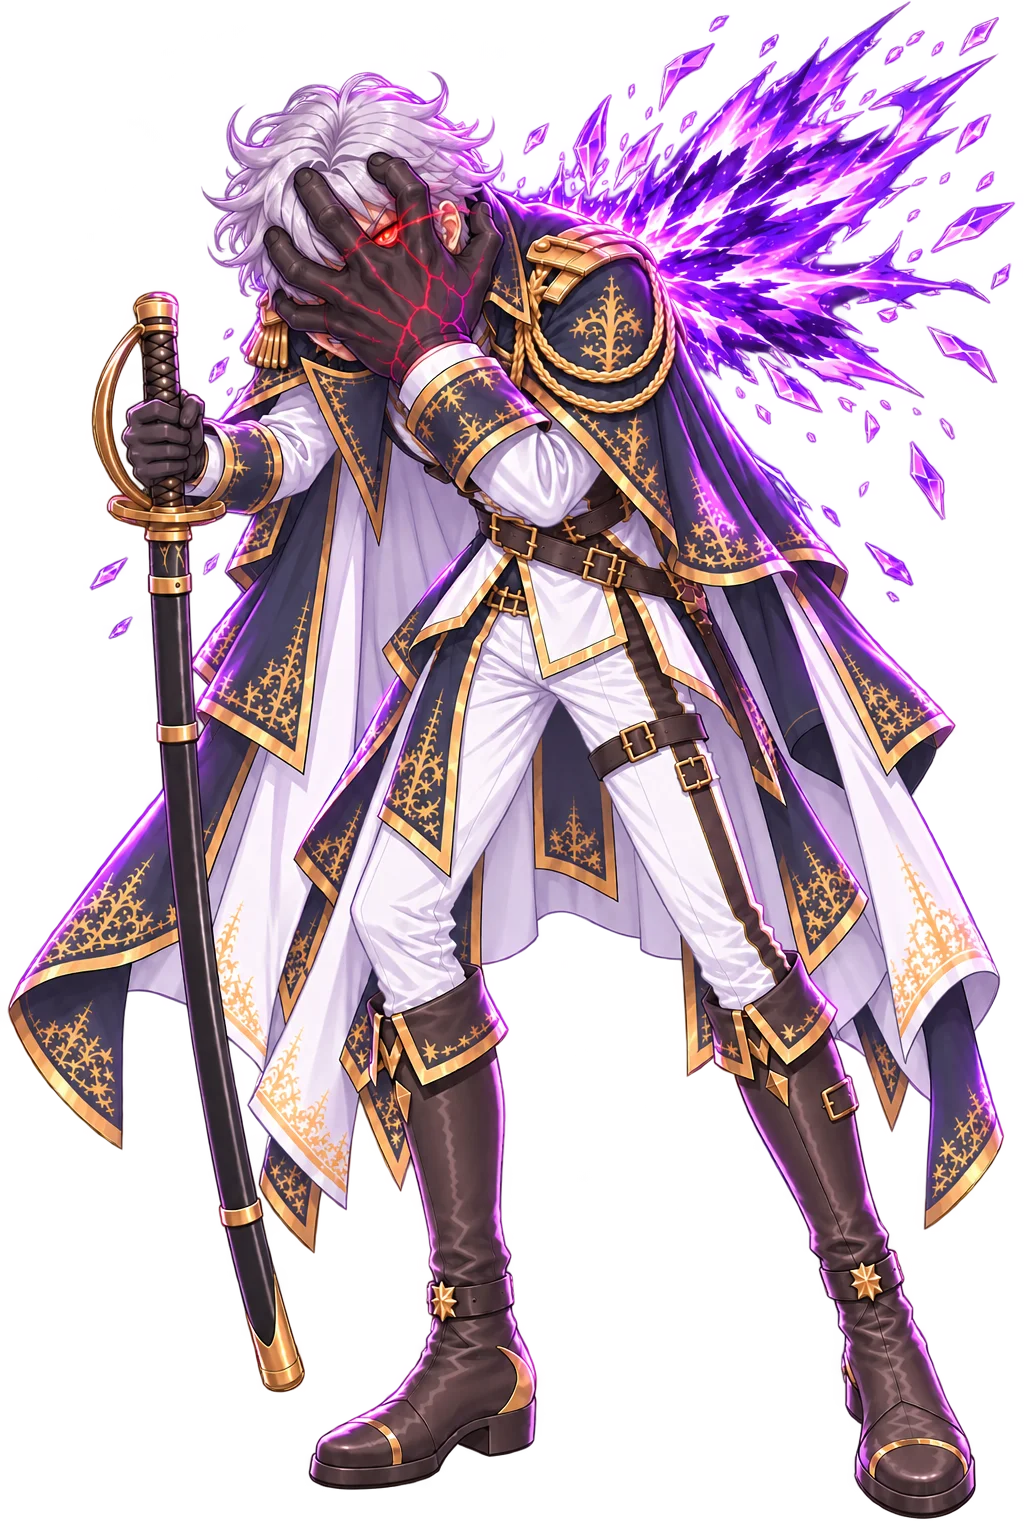
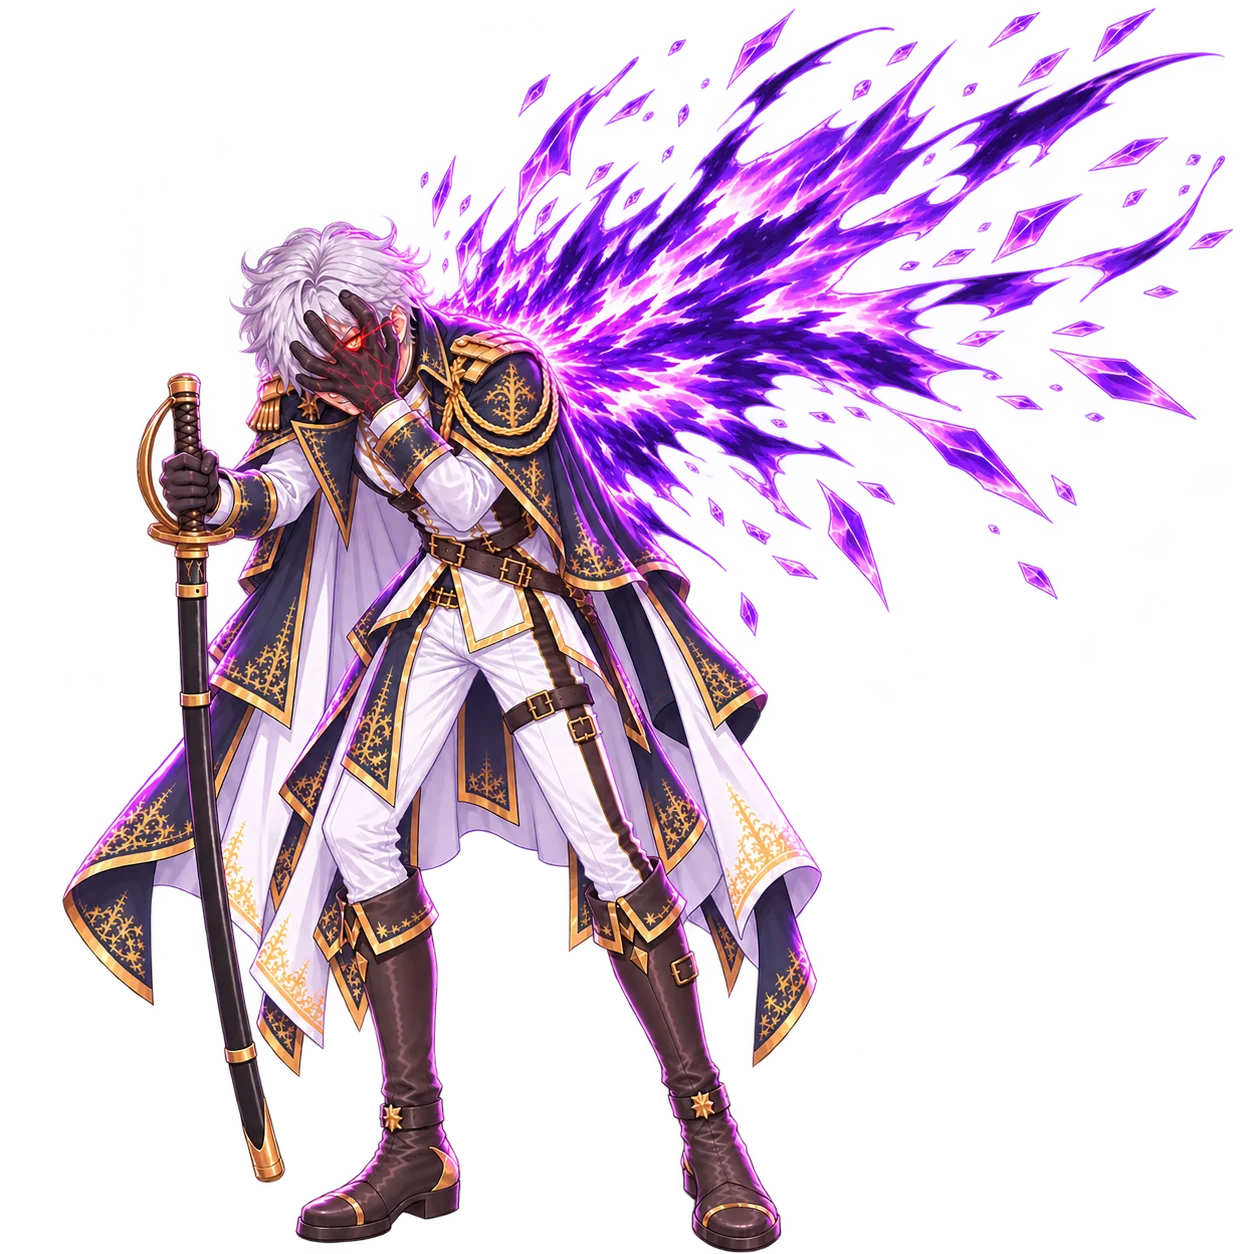
ver -2350 米夏 暴走：正常比例的手、光翼噴湧加大、畫布改方形 1254²

diff --git a/index.html b/index.html
@@ -16,7 +16,7 @@
 <link rel="apple-touch-icon" href="resources/background/tivot_emblem.png?v=9220f8bb">
 <title>TIVOT</title>
 <!-- 全域鎖直向（真鎖 + 橫向擋板）；classic script，需在版面就緒前掛上 -->
-<script src="orientation.js?v=2349"></script>
+<script src="orientation.js?v=2350"></script>
 <!-- 離線包（ver -2256）：註冊 sw.js；主畫面 App 裡出現「下載離線包」鈕 -->
 <script src="offline.js"></script>
 <!-- ══ 效能探針・計數層（ver -850，Ray：「沒有辦法寫一個偵測程式進去看是什麼
@@ -65,74 +65,74 @@
 <script type="importmap">
 {
   "imports": {
-    "./audio.js": "./audio.js?v=2349",
-    "./config.js": "./config.js?v=2349",
-    "./i18n.js": "./i18n.js?v=2349",
-    "./main.js": "./main.js?v=2349",
-    "./offline.js": "./offline.js?v=2349",
-    "./orientation.js": "./orientation.js?v=2349",
-    "./state.js": "./state.js?v=2349",
-    "./sw.js": "./sw.js?v=2349",
-    "./telemetry.js": "./telemetry.js?v=2349",
-    "./modules/beatpick.js": "./modules/beatpick.js?v=2349",
-    "./modules/blink.js": "./modules/blink.js?v=2349",
-    "./modules/breath.js": "./modules/breath.js?v=2349",
-    "./modules/combat.js": "./modules/combat.js?v=2349",
-    "./modules/defense.js": "./modules/defense.js?v=2349",
-    "./modules/enemy.js": "./modules/enemy.js?v=2349",
-    "./modules/eyefx.js": "./modules/eyefx.js?v=2349",
-    "./modules/gear.js": "./modules/gear.js?v=2349",
-    "./modules/groundShadow.js": "./modules/groundShadow.js?v=2349",
-    "./modules/haptics.js": "./modules/haptics.js?v=2349",
-    "./modules/inn.js": "./modules/inn.js?v=2349",
-    "./modules/inspector.js": "./modules/inspector.js?v=2349",
-    "./modules/loot.js": "./modules/loot.js?v=2349",
-    "./modules/partner.js": "./modules/partner.js?v=2349",
-    "./modules/saint.js": "./modules/saint.js?v=2349",
-    "./modules/sakura.js": "./modules/sakura.js?v=2349",
-    "./modules/save.js": "./modules/save.js?v=2349",
-    "./modules/settings.js": "./modules/settings.js?v=2349",
-    "./modules/story.js": "./modules/story.js?v=2349",
-    "./modules/sway.js": "./modules/sway.js?v=2349",
-    "./modules/tone.js": "./modules/tone.js?v=2349",
-    "./modules/town.js": "./modules/town.js?v=2349",
-    "./modules/transition.js": "./modules/transition.js?v=2349",
-    "./modules/tutorial.js": "./modules/tutorial.js?v=2349",
-    "./modules/weapon.js": "./modules/weapon.js?v=2349",
-    "./script/bg_index.js": "./script/bg_index.js?v=2349",
-    "./script/blink.js": "./script/blink.js?v=2349",
-    "./script/clock.js": "./script/clock.js?v=2349",
-    "./script/enemies.js": "./script/enemies.js?v=2349",
-    "./script/evaluation.js": "./script/evaluation.js?v=2349",
-    "./script/eyefx.js": "./script/eyefx.js?v=2349",
-    "./script/inventory.js": "./script/inventory.js?v=2349",
-    "./script/loadout.js": "./script/loadout.js?v=2349",
-    "./script/mainScript.js": "./script/mainScript.js?v=2349",
-    "./script/progress.js": "./script/progress.js?v=2349",
-    "./script/shopcards.js": "./script/shopcards.js?v=2349",
-    "./script/shopstock.js": "./script/shopstock.js?v=2349",
-    "./script/speakers.js": "./script/speakers.js?v=2349",
-    "./script/sway.js": "./script/sway.js?v=2349",
-    "./script/town.js": "./script/town.js?v=2349",
-    "./script/weapons.js": "./script/weapons.js?v=2349",
-    "./i18n/en.js": "./i18n/en.js?v=2349",
-    "./i18n/es.js": "./i18n/es.js?v=2349",
-    "./i18n/ja.js": "./i18n/ja.js?v=2349",
-    "./i18n/scriptTr.js": "./i18n/scriptTr.js?v=2349",
-    "./i18n/zh.js": "./i18n/zh.js?v=2349",
-    "./i18n/script/es.classic.js": "./i18n/script/es.classic.js?v=2349",
-    "./i18n/script/es.js": "./i18n/script/es.js?v=2349",
-    "./i18n/ui/es.classic.js": "./i18n/ui/es.classic.js?v=2349",
-    "./i18n/ui/es.js": "./i18n/ui/es.js?v=2349"
+    "./audio.js": "./audio.js?v=2350",
+    "./config.js": "./config.js?v=2350",
+    "./i18n.js": "./i18n.js?v=2350",
+    "./main.js": "./main.js?v=2350",
+    "./offline.js": "./offline.js?v=2350",
+    "./orientation.js": "./orientation.js?v=2350",
+    "./state.js": "./state.js?v=2350",
+    "./sw.js": "./sw.js?v=2350",
+    "./telemetry.js": "./telemetry.js?v=2350",
+    "./modules/beatpick.js": "./modules/beatpick.js?v=2350",
+    "./modules/blink.js": "./modules/blink.js?v=2350",
+    "./modules/breath.js": "./modules/breath.js?v=2350",
+    "./modules/combat.js": "./modules/combat.js?v=2350",
+    "./modules/defense.js": "./modules/defense.js?v=2350",
+    "./modules/enemy.js": "./modules/enemy.js?v=2350",
+    "./modules/eyefx.js": "./modules/eyefx.js?v=2350",
+    "./modules/gear.js": "./modules/gear.js?v=2350",
+    "./modules/groundShadow.js": "./modules/groundShadow.js?v=2350",
+    "./modules/haptics.js": "./modules/haptics.js?v=2350",
+    "./modules/inn.js": "./modules/inn.js?v=2350",
+    "./modules/inspector.js": "./modules/inspector.js?v=2350",
+    "./modules/loot.js": "./modules/loot.js?v=2350",
+    "./modules/partner.js": "./modules/partner.js?v=2350",
+    "./modules/saint.js": "./modules/saint.js?v=2350",
+    "./modules/sakura.js": "./modules/sakura.js?v=2350",
+    "./modules/save.js": "./modules/save.js?v=2350",
+    "./modules/settings.js": "./modules/settings.js?v=2350",
+    "./modules/story.js": "./modules/story.js?v=2350",
+    "./modules/sway.js": "./modules/sway.js?v=2350",
+    "./modules/tone.js": "./modules/tone.js?v=2350",
+    "./modules/town.js": "./modules/town.js?v=2350",
+    "./modules/transition.js": "./modules/transition.js?v=2350",
+    "./modules/tutorial.js": "./modules/tutorial.js?v=2350",
+    "./modules/weapon.js": "./modules/weapon.js?v=2350",
+    "./script/bg_index.js": "./script/bg_index.js?v=2350",
+    "./script/blink.js": "./script/blink.js?v=2350",
+    "./script/clock.js": "./script/clock.js?v=2350",
+    "./script/enemies.js": "./script/enemies.js?v=2350",
+    "./script/evaluation.js": "./script/evaluation.js?v=2350",
+    "./script/eyefx.js": "./script/eyefx.js?v=2350",
+    "./script/inventory.js": "./script/inventory.js?v=2350",
+    "./script/loadout.js": "./script/loadout.js?v=2350",
+    "./script/mainScript.js": "./script/mainScript.js?v=2350",
+    "./script/progress.js": "./script/progress.js?v=2350",
+    "./script/shopcards.js": "./script/shopcards.js?v=2350",
+    "./script/shopstock.js": "./script/shopstock.js?v=2350",
+    "./script/speakers.js": "./script/speakers.js?v=2350",
+    "./script/sway.js": "./script/sway.js?v=2350",
+    "./script/town.js": "./script/town.js?v=2350",
+    "./script/weapons.js": "./script/weapons.js?v=2350",
+    "./i18n/en.js": "./i18n/en.js?v=2350",
+    "./i18n/es.js": "./i18n/es.js?v=2350",
+    "./i18n/ja.js": "./i18n/ja.js?v=2350",
+    "./i18n/scriptTr.js": "./i18n/scriptTr.js?v=2350",
+    "./i18n/zh.js": "./i18n/zh.js?v=2350",
+    "./i18n/script/es.classic.js": "./i18n/script/es.classic.js?v=2350",
+    "./i18n/script/es.js": "./i18n/script/es.js?v=2350",
+    "./i18n/ui/es.classic.js": "./i18n/ui/es.classic.js?v=2350",
+    "./i18n/ui/es.js": "./i18n/ui/es.js?v=2350"
   }
 }
 </script>
 <!-- BUST:END -->
-<link rel="stylesheet" href="style.css?v=2349">
+<link rel="stylesheet" href="style.css?v=2350">
   <!-- 拾得道具／道具欄／商店／懸賞榜（ver -380 抽出，飛行頁共用同一份）。
        ⚠ `data-lootsheet` 是給 `modules/loot.js` 認的：它看到已經掛過就不再掛一次。
          飛行頁沒有這一行，由那支模組自己掛上去。 -->
-  <link rel="stylesheet" href="css/lootsheet.css?v=2349" data-lootsheet="1">
+  <link rel="stylesheet" href="css/lootsheet.css?v=2350" data-lootsheet="1">
 <!-- 主畫面 App（standalone）偵測：首繪前在 <html> 蓋 .standalone，
      供 CSS 修 iOS 26 版面視窗少算頂部安全區高度（底部露黑帶）的問題 -->
 <script>
@@ -778,6 +778,6 @@
      ⚠ src 是**按下去才給**的（lazy）：不然每次開機都要多載一整個飛行頁。 -->
 <iframe id="flightFrame" title="飛行"></iframe>
 
-<script type="module" src="main.js?v=2349"></script>
+<script type="module" src="main.js?v=2350"></script>
 </body>
 </html>

diff --git a/flight/index.html b/flight/index.html
@@ -3,7 +3,7 @@
 <head>
 <meta charset="utf-8">
 <meta name="viewport" content="width=device-width,initial-scale=1,maximum-scale=1,user-scalable=no,viewport-fit=cover">
-<script src="../orientation.js?v=2349"></script>
+<script src="../orientation.js?v=2350"></script>
 <script>
 /* 介面字譯文（ver -1909）：這一頁是非模組，程式一開跑就讀字串 —— 所以譯文表要**同步**載
    （document.write，只在選了有譯文的語言時）。語言判定與 i18n.js 的 LANG 同一套
@@ -11,7 +11,7 @@
 (function(){
   var l=null; try{ l=localStorage.getItem('tivot.lang'); }catch(e){}
   if(!l){ try{ var n=(navigator.languages&&navigator.languages[0])||navigator.language||''; if(String(n).toLowerCase().indexOf('es')===0) l='es'; }catch(e){} }
-  if(['es'].indexOf(l)>=0) document.write('<script src="../i18n/script/'+l+'.classic.js?v=2349"><\/script><script src="../i18n/ui/'+l+'.classic.js?v=2349"><\/script>');
+  if(['es'].indexOf(l)>=0) document.write('<script src="../i18n/script/'+l+'.classic.js?v=2350"><\/script><script src="../i18n/ui/'+l+'.classic.js?v=2350"><\/script>');
 })();
 function i18nT(s){ var t=window.__TIVOT_TR; return (t && typeof s==='string' && t[s]!=null) ? t[s] : s; }
 document.addEventListener('DOMContentLoaded', function(){
@@ -236,7 +236,7 @@ document.addEventListener('DOMContentLoaded', function(){
   /* ver -2217：門圖含楣（kerberos_gate，＝主遊戲同一張）—— 底圖往上延伸到楣的上緣（--fk-gate-top，負值，layoutFKerb 寫）。
      畫在 ::before：門的子元素（紋章／箭／鉚釘）排在它之後，自然疊在上面。 */
   #fkerbDoor::before{content:'';position:absolute;left:0;right:0;top:var(--fk-gate-top,0px);bottom:0;
-    background-image:url('../resources/vfx/kerberos_gate.webp?v=2349');
+    background-image:url('../resources/vfx/kerberos_gate.webp?v=2350');
     background-repeat:no-repeat;background-size:100% 100%;pointer-events:none;}
   #fkerb.rise #fkerbDoor{transform:translateY(calc(var(--fkerb-rise,0px) * -1));}
   /* 楣與其餘零件：全部是門的子元素＝同一剛體，門上推它們跟著上去
@@ -259,8 +259,8 @@ document.addEventListener('DOMContentLoaded', function(){
       radial-gradient(circle at 50% 22%, rgba(0,0,0,.72) 40%, rgba(0,0,0,0) 78%);
     box-shadow:inset 0 3px 7px rgba(0,0,0,.85);}
   #fkerbGear .fkg-shine{position:absolute;inset:0;mix-blend-mode:screen;opacity:.8;
-    -webkit-mask-image:url("../resources/vfx/kerberos_gear.webp?v=2349");
-    mask-image:url("../resources/vfx/kerberos_gear.webp?v=2349");
+    -webkit-mask-image:url("../resources/vfx/kerberos_gear.webp?v=2350");
+    mask-image:url("../resources/vfx/kerberos_gear.webp?v=2350");
     -webkit-mask-size:100% 100%;mask-size:100% 100%;
     -webkit-mask-repeat:no-repeat;mask-repeat:no-repeat;
     background:linear-gradient(114deg,
@@ -280,8 +280,8 @@ document.addEventListener('DOMContentLoaded', function(){
     filter:drop-shadow(0 3px 7px rgba(0,0,0,.9)) drop-shadow(0 0 2px rgba(0,0,0,.8));}
   #fkerbPend .fkp-shine{position:absolute;inset:0;pointer-events:none;
     mix-blend-mode:screen;opacity:.85;
-    -webkit-mask-image:url("../resources/vfx/kerberos_pendant.webp?v=2349");
-    mask-image:url("../resources/vfx/kerberos_pendant.webp?v=2349");
+    -webkit-mask-image:url("../resources/vfx/kerberos_pendant.webp?v=2350");
+    mask-image:url("../resources/vfx/kerberos_pendant.webp?v=2350");
     -webkit-mask-size:100% 100%;mask-size:100% 100%;
     -webkit-mask-repeat:no-repeat;mask-repeat:no-repeat;
     background:linear-gradient(114deg,
@@ -646,23 +646,23 @@ img:not([src]), img[src=""], img.img-broken{visibility:hidden !important;}
        ⚠ 要有，否則交棒那一格齒輪會憑空冒出來（同吊墜的理由）。
        ⚠ 排在 `.fk-plate` 之前 ＝ 團徽之下、槍棺之上。 -->
   <div id="fkerbGear"><i class="fkg-well"></i>
-    <img src="../resources/vfx/kerberos_gear.webp?v=2349" alt=""><i class="fkg-shine"></i></div>
+    <img src="../resources/vfx/kerberos_gear.webp?v=2350" alt=""><i class="fkg-shine"></i></div>
   <div id="fkerbGearSm"><i class="fkg-well"></i>
-    <img src="../resources/vfx/kerberos_gear.webp?v=2349" alt=""></div>
-  <img class="fk-plate" src="../resources/vfx/kerberos_plate.webp?v=2349" alt="">
-  <img class="fk-arrow n" src="../resources/vfx/kerberos_arrow.webp?v=2349" alt="">
-  <img class="fk-arrow e" src="../resources/vfx/kerberos_arrow.webp?v=2349" alt="">
-  <img class="fk-arrow s" src="../resources/vfx/kerberos_arrow.webp?v=2349" alt="">
-  <img class="fk-arrow w" src="../resources/vfx/kerberos_arrow.webp?v=2349" alt="">
-  <img class="fk-rivet r10" src="../resources/vfx/kerberos_rivet.webp?v=2349" alt="">
-  <img class="fk-rivet r2"  src="../resources/vfx/kerberos_rivet.webp?v=2349" alt="">
-  <img class="fk-rivet r4"  src="../resources/vfx/kerberos_rivet.webp?v=2349" alt="">
-  <img class="fk-rivet r8"  src="../resources/vfx/kerberos_rivet.webp?v=2349" alt="">
+    <img src="../resources/vfx/kerberos_gear.webp?v=2350" alt=""></div>
+  <img class="fk-plate" src="../resources/vfx/kerberos_plate.webp?v=2350" alt="">
+  <img class="fk-arrow n" src="../resources/vfx/kerberos_arrow.webp?v=2350" alt="">
+  <img class="fk-arrow e" src="../resources/vfx/kerberos_arrow.webp?v=2350" alt="">
+  <img class="fk-arrow s" src="../resources/vfx/kerberos_arrow.webp?v=2350" alt="">
+  <img class="fk-arrow w" src="../resources/vfx/kerberos_arrow.webp?v=2350" alt="">
+  <img class="fk-rivet r10" src="../resources/vfx/kerberos_rivet.webp?v=2350" alt="">
+  <img class="fk-rivet r2"  src="../resources/vfx/kerberos_rivet.webp?v=2350" alt="">
+  <img class="fk-rivet r4"  src="../resources/vfx/kerberos_rivet.webp?v=2350" alt="">
+  <img class="fk-rivet r8"  src="../resources/vfx/kerberos_rivet.webp?v=2350" alt="">
   <!-- 吊墜（ver -412）：與主遊戲同一套（見 index.html 的 #kerbPend 與 style.css）。
        ⚠ 這一頁**必須也有** —— 遭遇時門是在這裡推上來的，交棒之後主遊戲那一半才接手；
          只有一邊掛吊墜的話，交棒那一格會憑空多出一個東西。 -->
   <div id="fkerbPend"><div class="fkp-swing"><div class="fkp-idle">
-    <img src="../resources/vfx/kerberos_pendant.webp?v=2349" alt=""><i class="fkp-shine"></i>
+    <img src="../resources/vfx/kerberos_pendant.webp?v=2350" alt=""><i class="fkp-shine"></i>
   </div></div></div>
 </div></div>
 <div id="boot">
@@ -684,11 +684,11 @@ img:not([src]), img[src=""], img.img-broken{visibility:hidden !important;}
   <div id="bMsg"><small id="bootMsg"></small></div>
 </div>
 
-<script src="settlement.js?v=2349"></script>
+<script src="settlement.js?v=2350"></script>
 <!-- 閒聊對話的**內容**獨立成一支：方便加台詞、加觸發條件而不必碰引擎。
      ⚠ 一般 <script>（非 module）→ TALKS / talkPeriod / talkPick 是全域，
        而且會在下面這段 inline 之前執行完，所以 inline 內可以直接用。 -->
-<script src="talks.js?v=2349"></script>
+<script src="talks.js?v=2350"></script>
 <script>
 /* 破圖框一律不畫（ver -1881，同主頁 main.js 那一支，這一頁是另一個 document）。 */
 document.addEventListener('error', e=>{ const t=e.target; if(t && t.tagName==='IMG') t.classList.add('img-broken'); }, true);
@@ -764,7 +764,7 @@ const COLOR_URL  = 'silvermoon_terrain.png?v=b18827be'  + TERRAIN_V;
    以前是手寫的，於是從 -911 起就沒有人記得動它 —— 而 HUD 上的版本號正是 Ray
    在手機上確認「我現在跑的是哪一版」的唯一依據（鐵律 7：一個量一個計算點；
    ver -626：版本號不動就等於沒有版本號）。**不要手改。** */
-const FLIGHT_VER = 'ver -2349';
+const FLIGHT_VER = 'ver -2350';
 const MAP_SCALE  = 20;
 const INV_SCALE  = 1/MAP_SCALE;
 const PEAK_SCALE = 520;   // 高度圖 255 對應的世界高度（越大山越陡）

diff --git a/script/speakers.js b/script/speakers.js
@@ -1657,7 +1657,7 @@ export const ART = {
     draw:       { src:'resources/si/misha_si_draw.webp?v=68b1b653', top:6, bot:1534, fx:0.434 },   // ver -1728：Ray 新出的拔刀圖（姿勢換了，取景重量；美術 09-25）
     salute:     { src:'resources/si/misha_si_salute.webp', top:9, bot:1520, fx:0.447 },
     side:       { src:'resources/si/misha_si_side.webp', top:16, bot:1512, fx:0.37 },
-    '暴走':     { blink:'off', rescale:true, src:'resources/si/misha_si_coverfaceni.webp?v=fc008857', top:72, bot:1505, fx:0.370 },   // ver -2349（Ray）：大手用力抓臉、指縫恨而銳利的紅光眼＋裂紋、左後方碎裂紫光翼；top/bot 量人不量翼
+    '暴走':     { blink:'off', rescale:true, src:'resources/si/misha_si_coverfaceni.webp?v=1b83efce', top:176, bot:1230, fx:0.303 },   // ver -2350（Ray）：方形畫布 1254²（光翼才畫得完整）；正常比例的手、恨而銳利的紅光眼、大幅噴湧的碎裂紫光翼；top/bot 量人不量翼
     '抓臉':     { blink:'off', src:'resources/si/misha_si_coverface.webp?v=fac100ff', top:25, bot:1504, fx:0.400 },   // ver -2349（Ray）：手掌蓋住半張臉、指縫露出暴走的眼（wound 為底，畫風照原圖）
     wound:      { fxShift:0, blink:'off', src:'resources/si/misha_si_wound.webp?v=3a49219d', top:34, bot:1499, fx:0.403 },
     close:      { src:'resources/si/misha_si_close.webp?v=47dd4349', top:14, bot:1509, fx:0.469 },

diff --git a/config.js b/config.js
@@ -87,7 +87,7 @@ export const HITFX = {
  *     以為是快取卡住 —— 版本號不動就等於沒有版本號）。
  *  ⚠ 它同時是**暖開機戳記的鑰匙**（main.js 的 `WARM_BOOT`）：版本一變，
  *    上一版的戳記就失效 → 下一次開機重跑完整讀取。那正是改版後該有的行為。 */
-export const VERSION = 'ver 2026.11.01-2349';
+export const VERSION = 'ver 2026.11.01-2350';
 
 /* ══ 空中怪 16 隻的戰鬥卡（ver -2268）══ 每一隻一張 `flight_<鍵>`（飛行頁 `battleIdFor` 的命名），
    內容同羽蛇那一場：船戰、艦載武器音、連射間隔 180ms。⚠ 這份鍵清單在三處：這裡／
@@ -6153,7 +6153,7 @@ export const ASSET_VER = {
   'misha_si_closeopen_closed': '658c29c2',
   'misha_si_closeopen_half': '0379d48b',
   'misha_si_coverface': 'fac100ff',
-  'misha_si_coverfaceni': 'fc008857',
+  'misha_si_coverfaceni': '1b83efce',
   'misha_si_draw': '68b1b653',
   'misha_si_draw_closed': 'ff69810f',
   'misha_si_draw_half': '45f86f5a',

diff --git a/modules/story.js b/modules/story.js
@@ -3588,7 +3588,7 @@ const KERB_DIR='resources/vfx/';
    cache-buster（§5：檔名沒變、內容變了，瀏覽器照樣拿舊的那一份，而症狀只是
    「看起來沒變」）。版本號由 `tools/bust.py` 同步，路徑只由 `kerbUrl()` 組（鐵律 8）——
    飛行頁那一半是另一個 document，各有一份，改一邊要改另一邊。 */
-const KERB_V='?v=2349';
+const KERB_V='?v=2350';
 const kerbUrl=n=>KERB_DIR+n+'.webp'+KERB_V;
 /* 門的圖（ver -2218）：**每一道門都要先載完**（劇情讀取頁 `preloadStory`、城鎮那道 `loadScene`）——
    Ray：「讀圖的時候先跑槍棺出來才讀楣」「往上推的時候楣會消失」：合成後的 `kerberos_gate`（門＋楣）
